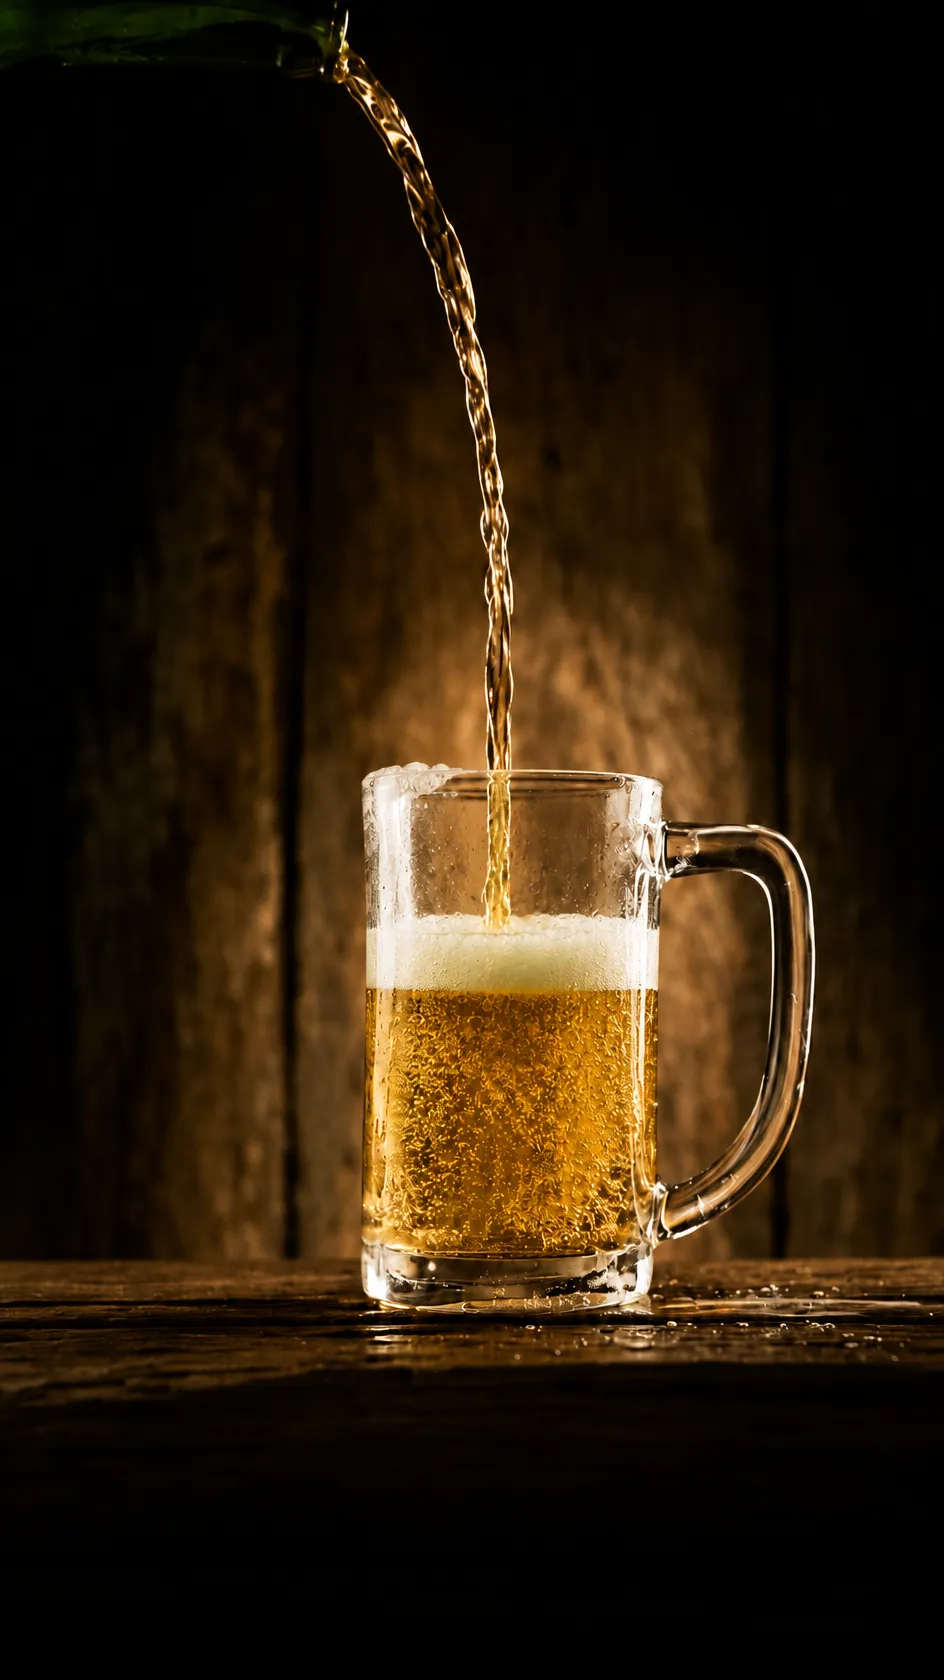
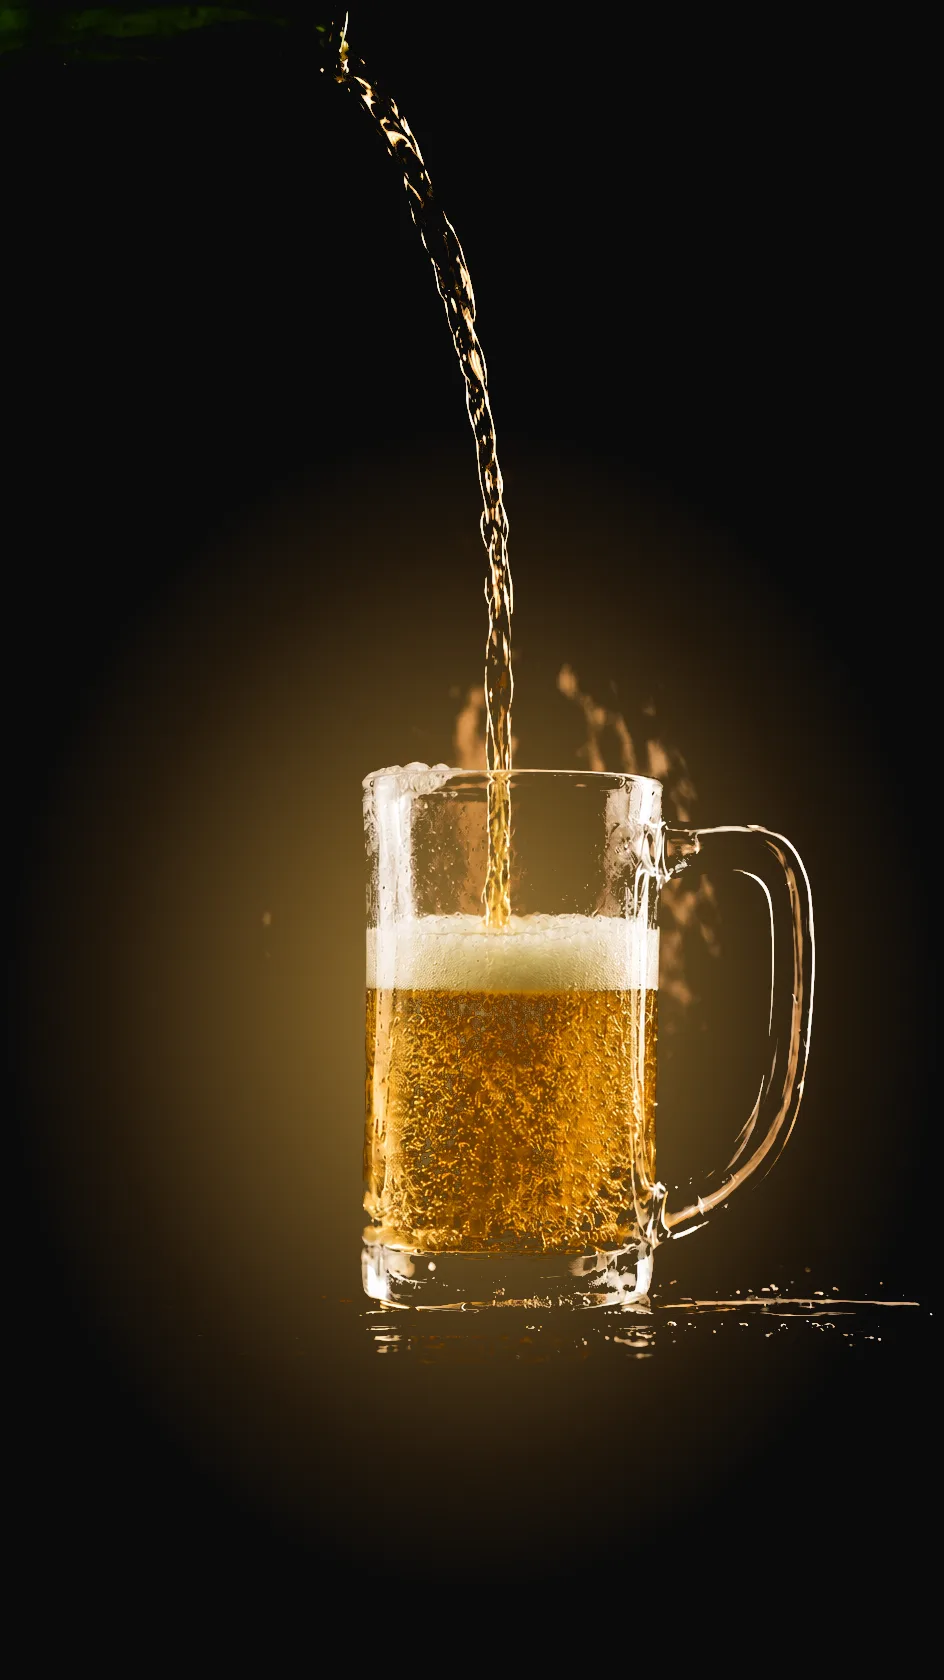
Catálogo: animação real do chopp, sem fundo de madeira
- Fotos recortadas (madeira removida) com fundo dourado claro e bordas no preto do site
- Movimento em vez de troca de foto: cerveja sobe (revela de baixo p/ cima),
  espuma cresce da boca da caneca, escorre e pinga (de cima p/ baixo)
- Brilho correndo no jato, bolhas subindo e gotas pingando da mesa
- Abertura livre na primeira tela para a animação aparecer inteira (some ao buscar)

Changed region(s): [[0.0, 0.0, 1.0, 0.8976], [0.4608, 0.5881, 0.5837, 0.681], [0.0614, 0.5881, 0.0922, 0.619]]

diff --git a/style.css b/style.css
@@ -51,34 +51,80 @@ main, .footer { position: relative; z-index: 1; }
 .age-box p { color: var(--muted); margin: 0 0 18px; }
 .age-actions { display: grid; gap: 8px; }
 
-/* ============ Fundo: chopp sendo servido (fotos) ============ */
-/* 6 fotos empilhadas; cada uma se dissolve sobre a anterior. Toca uma vez
-   depois do aviso de 18 anos e para no último quadro. */
-.chopp { position: fixed; inset: 0; z-index: 0; pointer-events: none; overflow: hidden; background: var(--bg); }
+/* ============ Fundo: chopp sendo servido (fotos reais + movimento) ============ */
+/* As fotos já têm o fundo dourado com bordas no preto do site.
+   Cada foto nova é revelada na direção do movimento:
+   cerveja sobe (de baixo p/ cima), espuma cresce (da boca da caneca),
+   espuma escorre e pinga (de cima p/ baixo). Toca após o aviso de 18 anos. */
+.chopp { position: fixed; inset: 0; z-index: 0; pointer-events: none; overflow: hidden; background: #0a0a0a; }
 .chopp-palco {
   position: absolute; top: 0; left: 50%; height: 100%; aspect-ratio: 944 / 1680;
-  transform: translateX(-50%); opacity: .72;
+  transform: translateX(-50%);
+  -webkit-mask-image: linear-gradient(90deg, transparent 0, #000 14%, #000 86%, transparent 100%);
+  mask-image: linear-gradient(90deg, transparent 0, #000 14%, #000 86%, transparent 100%);
 }
-/* No computador a foto fica no centro e as laterais escurecem até o preto do site */
-.chopp-palco::after {
-  content: ""; position: absolute; inset: 0;
-  background:
-    linear-gradient(90deg, var(--bg) 0, transparent 30%, transparent 70%, var(--bg) 100%),
-    linear-gradient(180deg, rgba(10, 10, 10, .55) 0, transparent 22%, transparent 80%, var(--bg) 100%);
+.chopp .q {
+  position: absolute; inset: 0; width: 100%; height: 100%; object-fit: cover;
+  -webkit-mask-repeat: no-repeat; mask-repeat: no-repeat;
 }
-.chopp .q { position: absolute; inset: 0; width: 100%; height: 100%; object-fit: cover; opacity: 0; }
-.chopp .q1 { opacity: 1; }
-.chopp.rodando .q { animation: chFoto .8s ease-in-out forwards; }
-.chopp.rodando .q1 { animation: none; }
-.chopp.rodando .q2 { animation-delay: .6s; }
-.chopp.rodando .q3 { animation-delay: 1.7s; }
-.chopp.rodando .q4 { animation-delay: 2.8s; }
-.chopp.rodando .q5 { animation-delay: 3.9s; }
-.chopp.rodando .q6 { animation-delay: 5s; }
-.chopp.rodando .chopp-palco { animation: chZoom 7s ease-out both; }
+.chopp .q2, .chopp .q4, .chopp .q5, .chopp .q6 {
+  -webkit-mask-size: 100% 300%; mask-size: 100% 300%;
+}
+/* cerveja subindo: revela de baixo para cima */
+.chopp .q2 {
+  -webkit-mask-image: linear-gradient(to top, #000 48%, transparent 52%); mask-image: linear-gradient(to top, #000 48%, transparent 52%);
+  -webkit-mask-position: 0 20%; mask-position: 0 20%;
+}
+/* espuma crescendo a partir da boca da caneca */
+.chopp .q3 {
+  -webkit-mask-image: radial-gradient(closest-side, #000 70%, transparent 100%); mask-image: radial-gradient(closest-side, #000 70%, transparent 100%);
+  -webkit-mask-position: 52% 42%; mask-position: 52% 42%;
+  -webkit-mask-size: 0 0; mask-size: 0 0;
+}
+/* espuma escorrendo: revela de cima para baixo */
+.chopp .q4, .chopp .q5, .chopp .q6 {
+  -webkit-mask-image: linear-gradient(to bottom, #000 48%, transparent 52%); mask-image: linear-gradient(to bottom, #000 48%, transparent 52%);
+  -webkit-mask-position: 0 64%; mask-position: 0 64%;
+}
+.chopp.rodando .q2 { animation: chSobe 2.6s .4s linear both; }
+.chopp.rodando .q3 { animation: chCresce 1.4s 3s cubic-bezier(.3, .7, .4, 1) both; }
+.chopp.rodando .q4 { animation: chDesce 1.7s 4.2s linear both; }
+.chopp.rodando .q5 { animation: chDesce 1.7s 5.7s linear both; }
+.chopp.rodando .q6 { animation: chDesce 1.9s 7.2s linear both; }
+.chopp.rodando .chopp-palco { animation: chZoom 9s ease-out both; }
+
+@keyframes chSobe {
+  0%   { -webkit-mask-position: 0 20%; mask-position: 0 20%; }
+  12%  { -webkit-mask-position: 0 35%; mask-position: 0 35%; }
+  85%  { -webkit-mask-position: 0 54%; mask-position: 0 54%; }
+  100% { -webkit-mask-position: 0 80%; mask-position: 0 80%; }
+}
+@keyframes chCresce { to { -webkit-mask-size: 320% 320%; mask-size: 320% 320%; } }
+@keyframes chDesce {
+  0%   { -webkit-mask-position: 0 64%; mask-position: 0 64%; }
+  75%  { -webkit-mask-position: 0 36%; mask-position: 0 36%; }
+  100% { -webkit-mask-position: 0 20%; mask-position: 0 20%; }
+}
+@keyframes chZoom { from { transform: translateX(-50%) scale(1.05); } to { transform: translateX(-50%) scale(1); } }
+
+/* vida contínua: brilho correndo no jato, bolhas subindo, gotas pingando da mesa */
+.chopp-vivo { position: absolute; inset: 0; width: 100%; height: 100%; mix-blend-mode: screen; }
+.jato-brilho { fill: none; stroke: rgba(255, 240, 210, .55); stroke-width: 6; stroke-linecap: round; stroke-dasharray: .015 .06; opacity: 0; }
+.jato-brilho.j2 { stroke-width: 3; stroke-dasharray: .01 .09; stroke: rgba(255, 255, 255, .7); }
+.chopp.rodando .jato-brilho { animation: chAparece .4s .2s forwards, chCorre 1.1s .2s linear infinite; }
+.chopp.rodando .jato-brilho.j2 { animation: chAparece .4s .2s forwards, chCorre .8s .2s linear infinite; }
+.bolha { fill: rgba(255, 250, 235, .7); opacity: 0; }
+.chopp.rodando .bolha { animation-name: chBolha; animation-timing-function: linear; animation-iteration-count: infinite; }
+.pingo { fill: #fff8ea; opacity: 0; }
+.chopp.rodando .pingo { animation: chPingo 1.6s 9.2s cubic-bezier(.5, 0, 1, 1) infinite; }
+.chopp.rodando .pingo.p2 { animation-delay: 9.7s; animation-duration: 1.9s; }
+.chopp.rodando .pingo.p3 { animation-delay: 10.1s; }
+@keyframes chAparece { to { opacity: 1; } }
+@keyframes chCorre { to { stroke-dashoffset: -.75; } }
+@keyframes chBolha { 0% { opacity: 0; transform: none; } 12% { opacity: 1; } 85% { opacity: .8; } 100% { opacity: 0; transform: translateY(-360px); } }
+@keyframes chPingo { 0% { opacity: 1; transform: none; } 70% { opacity: 1; } 100% { opacity: 0; transform: translateY(70px); } }
+
 html.travado .chopp * { animation-play-state: paused !important; }
-@keyframes chFoto { to { opacity: 1; } }
-@keyframes chZoom { from { transform: translateX(-50%) scale(1.06); } to { transform: translateX(-50%) scale(1); } }
 /* títulos legíveis sobre a foto */
 .cat-title, .sec-promo-head h2 { text-shadow: 0 2px 14px rgba(0, 0, 0, .85); }
 
@@ -294,7 +340,6 @@ html.travado .chopp * { animation-play-state: paused !important; }
   .top-logo img { height: 74px; }
   .grid { grid-template-columns: repeat(2, 1fr); gap: 10px; }
   .card-img { font-size: 50px; }
-  .chopp-palco { opacity: .6; }
 }
 @media (prefers-reduced-motion: reduce) {
   *, *::before, *::after { animation-duration: .01ms !important; animation-iteration-count: 1 !important; transition-duration: .01ms !important; }
@@ -355,3 +400,16 @@ html.travado .chopp * { animation-play-state: paused !important; }
 @media (max-width: 700px) {
   .chips { -webkit-mask-image: linear-gradient(90deg, #000 82%, transparent); mask-image: linear-gradient(90deg, #000 82%, transparent); padding-right: 40px; }
 }
+
+/* ============ Abertura: espaço da animação do chopp ============ */
+.chopp-hero { height: min(64vh, 600px); display: flex; align-items: flex-end; justify-content: center; padding-bottom: 6px; }
+.hero-seta {
+  display: inline-flex; flex-direction: column; align-items: center; gap: 2px; cursor: pointer;
+  background: rgba(10, 10, 10, .55); border: 1px solid rgba(255, 194, 14, .45); color: var(--gold);
+  border-radius: 999px; padding: 8px 18px 6px; font-weight: 800; font-size: 13px; letter-spacing: .3px;
+  animation: heroSeta 1.6s 10s ease-in-out 3 both;
+}
+.hero-seta svg { width: 18px; height: 18px; fill: none; stroke: currentColor; stroke-width: 2.4; stroke-linecap: round; stroke-linejoin: round; }
+.hero-seta:hover { background: rgba(255, 194, 14, .15); }
+@keyframes heroSeta { 0%, 100% { transform: none; } 50% { transform: translateY(6px); } }
+@media (max-width: 480px) { .chopp-hero { height: min(62vh, 520px); } }

diff --git a/index.html b/index.html
@@ -21,7 +21,7 @@
   <link rel="preload" as="image" href="img/chopp/chopp-1.webp" fetchpriority="high">
   <link rel="preconnect" href="https://fonts.googleapis.com">
   <link href="https://fonts.googleapis.com/css2?family=Inter:wght@400;600;700;800&family=Montserrat:wght@800;900&display=swap" rel="stylesheet">
-  <link rel="stylesheet" href="style.css?v=20261119m">
+  <link rel="stylesheet" href="style.css?v=20261119o">
 </head>
 <body>
 
@@ -57,7 +57,7 @@
     })();
   </script>
 
-  <!-- Fundo: chopp sendo servido (fotos em sequência, uma se dissolvendo na outra) -->
+  <!-- Fundo: chopp sendo servido (fotos reais recortadas + movimento) -->
   <div class="chopp" id="chopp" aria-hidden="true">
     <div class="chopp-palco">
       <img class="q q1" src="img/chopp/chopp-1.webp" alt="" width="944" height="1680" decoding="async" fetchpriority="high">
@@ -66,6 +66,21 @@
       <img class="q q4" src="img/chopp/chopp-4.webp" alt="" width="944" height="1680" decoding="async">
       <img class="q q5" src="img/chopp/chopp-5.webp" alt="" width="944" height="1680" decoding="async">
       <img class="q q6" src="img/chopp/chopp-6.webp" alt="" width="944" height="1680" decoding="async">
+      <svg class="chopp-vivo" viewBox="0 0 944 1680" preserveAspectRatio="xMidYMid slice">
+        <path class="jato-brilho" pathLength="1" d="M335 10 C 400 110, 455 230, 474 400 C 486 500, 490 580, 490 650"/>
+        <path class="jato-brilho j2" pathLength="1" d="M335 10 C 400 110, 455 230, 474 400 C 486 500, 490 580, 490 650"/>
+        <circle class="bolha" cx="392" cy="1215" r="3.5" style="animation-duration:2.6s;animation-delay:3.2s"/>
+        <circle class="bolha" cx="430" cy="1215" r="2.5" style="animation-duration:3.1s;animation-delay:3.7s"/>
+        <circle class="bolha" cx="468" cy="1215" r="4" style="animation-duration:2.4s;animation-delay:4.3s"/>
+        <circle class="bolha" cx="512" cy="1215" r="3" style="animation-duration:3.3s;animation-delay:3.5s"/>
+        <circle class="bolha" cx="548" cy="1215" r="2.5" style="animation-duration:2.8s;animation-delay:4.7s"/>
+        <circle class="bolha" cx="585" cy="1215" r="4" style="animation-duration:3s;animation-delay:4.0s"/>
+        <circle class="bolha" cx="612" cy="1215" r="3" style="animation-duration:2.5s;animation-delay:5.1s"/>
+        <circle class="bolha" cx="455" cy="1215" r="2" style="animation-duration:3.4s;animation-delay:5.5s"/>
+        <ellipse class="pingo" cx="402" cy="1512" rx="4" ry="6"/>
+        <ellipse class="pingo p2" cx="482" cy="1620" rx="5" ry="7"/>
+        <ellipse class="pingo p3" cx="686" cy="1527" rx="4" ry="6"/>
+      </svg>
     </div>
   </div>
   <script>
@@ -100,6 +115,14 @@
       <input type="search" id="busca" placeholder="Buscar bebida ou categoria..." aria-label="Buscar bebida ou categoria" autocomplete="off">
       <div class="chips" id="categorias" role="group" aria-label="Categorias"></div>
     </section>
+
+    <!-- Abertura: espaço livre para a animação do chopp aparecer inteira -->
+    <div class="chopp-hero" id="choppHero">
+      <button class="hero-seta" id="heroSeta" aria-label="Ver as bebidas">
+        <span>Ver as bebidas</span>
+        <svg viewBox="0 0 24 24" aria-hidden="true"><path d="M6 9l6 6 6-6"/></svg>
+      </button>
+    </div>
 
     <section class="sec-promo" id="secPromo" hidden>
       <div class="sec-promo-head">
@@ -217,9 +240,9 @@
       } catch (e) { /* usa o data.js do Pages */ }
     })();
   </script>
-  <script src="geo.js?v=20261119m"></script>
-  <script src="promo.js?v=20261119m"></script>
-  <script src="pedido.js?v=20261119m"></script>
-  <script src="app.js?v=20261119m"></script>
+  <script src="geo.js?v=20261119o"></script>
+  <script src="promo.js?v=20261119o"></script>
+  <script src="pedido.js?v=20261119o"></script>
+  <script src="app.js?v=20261119o"></script>
 </body>
 </html>

diff --git a/app.js b/app.js
@@ -120,6 +120,7 @@
   function renderTudo() {
     const termo = norm($("busca").value);
     const filtrando = categoriaAtiva !== "Todas" || termo !== "";
+    $("choppHero").hidden = filtrando; // ao buscar, os resultados aparecem logo abaixo da busca
     const promo = produtosDaVitrine("promoDia");
     const ofertas = produtosDaVitrine("ofertas").filter((p) => !promo.includes(p));
     const dest = PRODUTOS.filter((p) => p.destaque);
@@ -407,6 +408,12 @@
     clearTimeout(toastT);
     toastT = setTimeout(() => $("toast").classList.remove("show"), 1400);
   }
+
+  // Botão da abertura: rola até as bebidas
+  $("heroSeta").onclick = () => {
+    const alvo = $("choppHero").getBoundingClientRect().bottom + scrollY - document.querySelector(".topbar").offsetHeight - 8;
+    scrollTo({ top: alvo, behavior: calmo ? "auto" : "smooth" });
+  };
 
   renderTudo();
   renderCarrinho();
